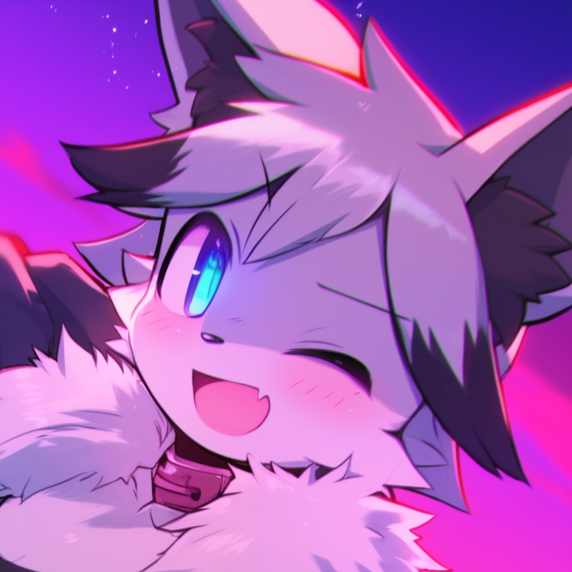
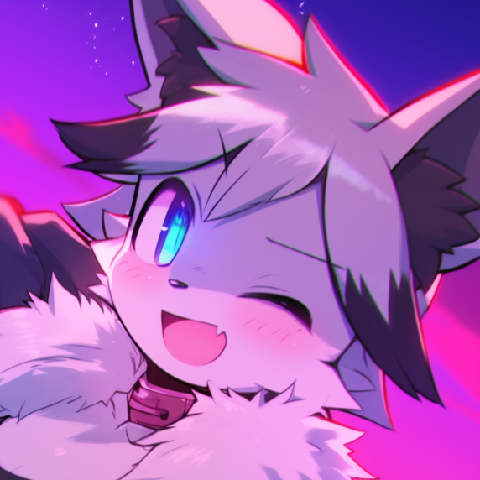
Reduced images sizes + Improved landing algorithm UX
Reduced the size of the images to make them load faster.

Improved the overall experience of the landing page's recommendations algorithm.

diff --git a/frontend/src/app/component/landing/landing.component.ts b/frontend/src/app/component/landing/landing.component.ts
@@ -51,6 +51,9 @@ export class LandingComponent implements OnInit, OnDestroy {
   noMorePostsUsers = false;
   noMorePostsCommunities = false;
 
+  userFollows = false;
+  userInCommunities = false;
+
   latestGeneralPosts: Post[] = [];
 
   // Column toggle properties
@@ -79,7 +82,6 @@ export class LandingComponent implements OnInit, OnDestroy {
     url = url.substring(0, url.length - 1);
     history.pushState(null, '', url);
     this.loadChart();
-    this.loadPopularCommunitiesList();
 
     // Check if user is logged in
     this.checkIfLoggedIn();
@@ -106,6 +108,7 @@ export class LandingComponent implements OnInit, OnDestroy {
     this.user = user;
     this.loggedUsername = user.username;
     this.isAdmin = user.roles.includes('ADMIN');
+    this.loadLists();
   }
 
   doesPostHaveImage(postID: number) {
@@ -155,15 +158,20 @@ export class LandingComponent implements OnInit, OnDestroy {
       this.pagePostCommunities = 0;
       this.noMorePostsUsers = false;
       this.noMorePostsCommunities = false;
-      
+      this.userFollows = false;
+      this.userInCommunities = false;
       // does the user follow anyone
       if (this.user.following > 0) {
+        this.userFollows = true;
         this.algoUser('most-liked-users');
+      } else {
+        this.algoGeneral('most-liked-users');
+      }
+      if (this.user.communities.length > 0) {
+        this.userInCommunities = true;
         this.algoUser('most-recent-communities');
       } else {
-        this.algoUser('no-following');
-        this.algoUser('most-liked-users');
-        this.algoUser('most-liked-communities');
+        this.algoGeneral('most-recent-communities');
       }
     } else {
       // if user is not logged in
@@ -243,7 +251,7 @@ export class LandingComponent implements OnInit, OnDestroy {
   }
 
   algoGeneral(option: string) {
-    if (option === 'most-liked-users' || option === 'default') {
+    if (option === 'most-liked-users' || option === 'default') { // most liked users
       this.postService
         .getGeneralRecommendations(
           'most-liked-users', // default
@@ -277,7 +285,7 @@ export class LandingComponent implements OnInit, OnDestroy {
             });
           },
         });
-    } else if (option === 'most-recent-communities' || option === 'default') {
+    } else if (option === 'most-recent-communities' || option === 'default') { // most recent communities
       this.postService
         .getGeneralRecommendations(
           'most-recent-communities', // default
@@ -310,7 +318,7 @@ export class LandingComponent implements OnInit, OnDestroy {
             });
           },
         });
-    } else {
+    } else { // most liked communities
       this.postService
         .getGeneralRecommendations(
           'most-liked-communities',
@@ -358,7 +366,6 @@ export class LandingComponent implements OnInit, OnDestroy {
             next: (user) => {
               this.userLoaded = true;
               this.loadUserData(user); // load the user data
-              this.loadLists();
             },
             error: (r) => {
               this.router.navigate(['/error'], {

diff --git a/frontend/src/app/component/landing/landing.component.html b/frontend/src/app/component/landing/landing.component.html
@@ -80,7 +80,7 @@
             <h3 class="fw-semibold mb-4">
               <p
                 class="page-title"
-                *ngIf="loggedIn; else notLoggedRecommendedPost"
+                *ngIf="loggedIn && userFollows; else notLoggedRecommendedPost"
               >
                 De los usuarios a los que sigues
               </p>
@@ -208,7 +208,7 @@
             <hr class="my-0" />
             <h3 class="fw-semibold mb-4 mt-4">
               <p
-                *ngIf="loggedIn; else notLoggedRecommendedPostByCommunities"
+                *ngIf="loggedIn && userInCommunities; else notLoggedRecommendedPostByCommunities"
                 class="page-title"
               >
                 Lo último de tus comunidades

diff --git a/frontend/src/app/models/user.model.ts b/frontend/src/app/models/user.model.ts
@@ -1,3 +1,5 @@
+import { Community } from "./community.model";
+
 export interface User {
   username: string;
   roles: string[];
@@ -13,4 +15,5 @@ export interface User {
   banCount: number;
   isDisabled: boolean;
   disabledUntil: string;
+  communities: Community[];
 }

diff --git a/backend/src/test/java/com/example/backend/selenium/CommentCreationDeletionTest.java b/backend/src/test/java/com/example/backend/selenium/CommentCreationDeletionTest.java
@@ -84,6 +84,13 @@ class CommentCreationDeletionTest {
         // Get last commentCard
 
         // Wait for reply-card
+
+        try {
+            Thread.sleep(3000);
+        } catch (InterruptedException e) {
+            e.printStackTrace();
+        }
+
         wait.until(presenceOfElementLocated(By.className("reply-card")));
 
         wait.until(driver -> commentsListContainer.findElements(By.className("reply-card")).size() == 2);

diff --git a/backend/src/main/java/com/example/backend/controller/APIUserController.java b/backend/src/main/java/com/example/backend/controller/APIUserController.java
@@ -46,7 +46,7 @@ public class APIUserController {
     private final PasswordEncoder passwordEncoder;
     private final MailService mailService;
 
-    interface UserBasicView extends User.BasicInfo {
+    interface UserBasicView extends User.CommunitiesInfo, Community.NameInfo {
     }
 
     interface UserUsername extends User.UsernameInfo {

diff --git a/backend/src/main/java/com/example/backend/entity/User.java b/backend/src/main/java/com/example/backend/entity/User.java
@@ -36,7 +36,7 @@ public class User {
     public interface FollowersInfo {
     }
 
-    public interface CommunitiesInfo {
+    public interface CommunitiesInfo extends BasicInfo {
     }
 
     public interface BanInfo extends BasicInfo {
